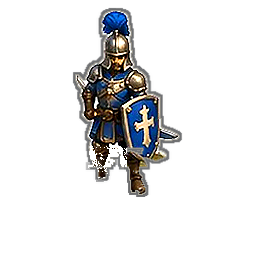
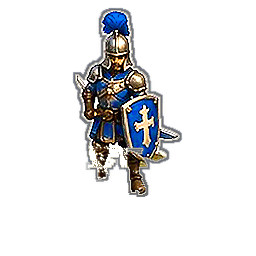
fix(art): strengthen infantry faction readability

Changed region(s): [[0.2812, 0.0312, 0.7188, 0.7812]]

diff --git a/tests/external-unit-assets.test.ts b/tests/external-unit-assets.test.ts
@@ -86,6 +86,20 @@ function alphaAt(png: DecodedPng, x: number, y: number): number {
   return png.pixels[(y * png.width + x) * 4 + 3];
 }
 
+function averageOpaqueLuminance(png: DecodedPng): number {
+  let total = 0;
+  let count = 0;
+  for (let i = 0; i < png.pixels.length; i += 4) {
+    if (png.pixels[i + 3] < 64) continue;
+    total +=
+      png.pixels[i] * 0.2126 +
+      png.pixels[i + 1] * 0.7152 +
+      png.pixels[i + 2] * 0.0722;
+    count++;
+  }
+  return total / count;
+}
+
 describe('Phase 2A 외부 보병 에셋', () => {
   it('보병 3세력을 등록하고 나머지 병종은 fallback으로 유지한다', () => {
     expect(
@@ -131,6 +145,13 @@ describe('Phase 2A 외부 보병 에셋', () => {
     expect(paths.reduce((sum, path) => sum + statSync(path).size, 0)).toBeLessThanOrEqual(
       1024 * 1024,
     );
+  });
+
+  it('축소 표시에서도 어두운 지형과 분리되는 평균 명도를 유지한다', () => {
+    for (const url of Object.values(REQUIRED_UNITS)) {
+      const png = decodeRgbaPng(publicFile(url));
+      expect(averageOpaqueLuminance(png), url).toBeGreaterThanOrEqual(85);
+    }
   });
 
   it('Phase 1 지형·건물 15개 등록을 유지한다', () => {
